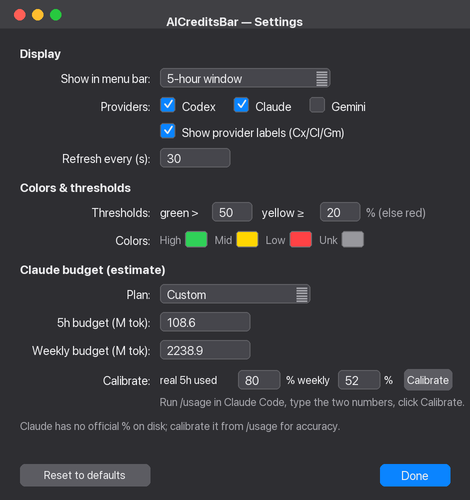
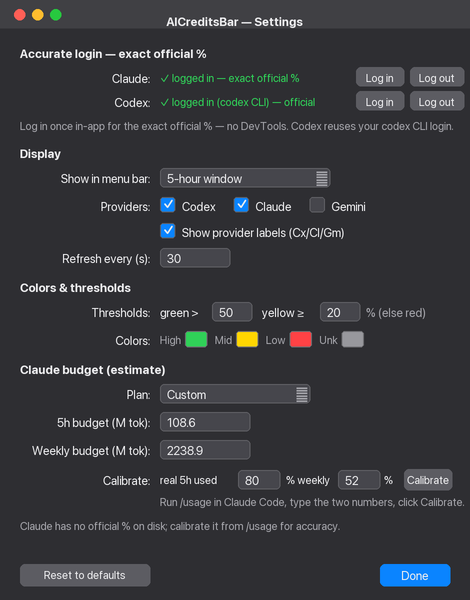
docs: document in-app official login; keychain token storage; update settings screenshot
- Tokens now stored in macOS Keychain (migrated off the plist).
- README (EN+KO): "Accurate login — exact official %" section.
- settings.png regenerated with the login section.

Changed region(s): [[0.0298, 0.0, 1.0, 0.9], [0.0298, 0.93, 0.3277, 0.99], [0.8043, 0.93, 0.9532, 0.99]]

diff --git a/main.swift b/main.swift
@@ -7,6 +7,30 @@
 import AppKit
 import Foundation
 import WebKit
+import Security
+
+// MARK: - Keychain (session tokens stored encrypted, never in the plist)
+enum Keychain {
+    static let service = "com.sueun.aicreditsbar"
+    static func get(_ account: String) -> String? {
+        let q: [String: Any] = [kSecClass as String: kSecClassGenericPassword,
+                                 kSecAttrService as String: service, kSecAttrAccount as String: account,
+                                 kSecReturnData as String: true, kSecMatchLimit as String: kSecMatchLimitOne]
+        var item: CFTypeRef?
+        guard SecItemCopyMatching(q as CFDictionary, &item) == errSecSuccess,
+              let d = item as? Data, let s = String(data: d, encoding: .utf8) else { return nil }
+        return s
+    }
+    static func set(_ account: String, _ value: String) {
+        let base: [String: Any] = [kSecClass as String: kSecClassGenericPassword,
+                                    kSecAttrService as String: service, kSecAttrAccount as String: account]
+        SecItemDelete(base as CFDictionary)
+        guard !value.isEmpty, let data = value.data(using: .utf8) else { return }
+        var add = base; add[kSecValueData as String] = data
+        add[kSecAttrAccessible as String] = kSecAttrAccessibleAfterFirstUnlock
+        SecItemAdd(add as CFDictionary, nil)
+    }
+}
 
 // MARK: - Config (UserDefaults-backed, with defaults)
 
@@ -36,9 +60,21 @@ enum Cfg {
     static var claudeWeekBudget: Double { get { validBudget(dbl("claudeWeekBudget", 1_500_000_000), 1_500_000_000) } set { d.set(newValue, forKey: "claudeWeekBudget") } }
     static var claudePlan: String { get { d.string(forKey: "claudePlan") ?? "Max 20x" } set { d.set(newValue, forKey: "claudePlan") } }
     // Official web-session tokens (exact %, like usage4claude). Empty = use local estimate/disk.
-    static var claudeSessionKey: String { get { d.string(forKey: "claudeSessionKey") ?? "" } set { d.set(newValue, forKey: "claudeSessionKey") } }
+    // Stored in Keychain; legacy plist values are read as a fallback and migrated on write.
+    static var claudeSessionKey: String {
+        get { Keychain.get("claudeSessionKey") ?? (d.string(forKey: "claudeSessionKey") ?? "") }
+        set { Keychain.set("claudeSessionKey", newValue); d.removeObject(forKey: "claudeSessionKey") }
+    }
+    static var codexSessionToken: String {
+        get { Keychain.get("codexSessionToken") ?? (d.string(forKey: "codexSessionToken") ?? "") }
+        set { Keychain.set("codexSessionToken", newValue); d.removeObject(forKey: "codexSessionToken") }
+    }
     static var claudeOrgUuid: String { get { d.string(forKey: "claudeOrgUuid") ?? "" } set { d.set(newValue, forKey: "claudeOrgUuid") } }
-    static var codexSessionToken: String { get { d.string(forKey: "codexSessionToken") ?? "" } set { d.set(newValue, forKey: "codexSessionToken") } }
+    static func migrateSecretsToKeychain() {
+        for k in ["claudeSessionKey", "codexSessionToken"] {
+            if Keychain.get(k) == nil, let v = d.string(forKey: k), !v.isEmpty { Keychain.set(k, v); d.removeObject(forKey: k) }
+        }
+    }
 
     static let planBudgets: [String: Double] = ["Pro": 19_000_000, "Max 5x": 88_000_000, "Max 20x": 220_000_000]
 
@@ -833,6 +869,7 @@ func argString(_ flag: String) -> String? {
     guard let i = CommandLine.arguments.firstIndex(of: flag), i + 1 < CommandLine.arguments.count else { return nil }
     return CommandLine.arguments[i + 1]
 }
+Cfg.migrateSecretsToKeychain()   // move any legacy plist tokens into the Keychain
 if let k = argString("--set-claude-key") {
     Cfg.claudeSessionKey = k; Cfg.claudeOrgUuid = ""; Cfg.d.synchronize()
     print("Claude sessionKey saved (\(k.count) chars). Restart the app to use official data."); exit(0)

diff --git a/docs/render_images.py b/docs/render_images.py
@@ -103,7 +103,7 @@ def render_dropdown():
 # ---------------------------------------------------------------- settings
 def render_settings():
     fT=ui(13,bold=True); fL=ui(12); fH=ui(12,bold=True); fS=ui(11)
-    W,H=470,500
+    W,H=470,600
     img=Image.new("RGB",(W*S,H*S),WIN_BG); d=ImageDraw.Draw(img)
     # title bar
     d.rectangle([0,0,W*S,28*S],fill=TITLE_BG)
@@ -126,6 +126,12 @@ def render_settings():
         text(d,(x+22,y+1),t,fL,WHITE)
         return x+22+tw(d,t,fL)+18
 
+    def btn2(x,w,t):
+        rrect(d,(x,y-3,x+w,y+16),5,(92,92,98)); text(d,(x+w/2,y+1),t,fS,WHITE,anchor="ma")
+    head("Accurate login — exact official %")
+    label("Claude:"); text(d,(160,y+1),"✓ logged in — exact official %",fS,GREEN); btn2(356,48,"Log in"); btn2(410,54,"Log out"); y+=24
+    label("Codex:"); text(d,(160,y+1),"✓ logged in (codex CLI) — official",fS,GREEN); btn2(356,48,"Log in"); btn2(410,54,"Log out"); y+=24
+    text(d,(20,y+1),"Log in once in-app for the exact official % — no DevTools. Codex reuses your codex CLI login.",fS,SUB); y+=28
     head("Display")
     label("Show in menu bar:"); popup(160,170,"5-hour window"); y+=28
     label("Providers:");